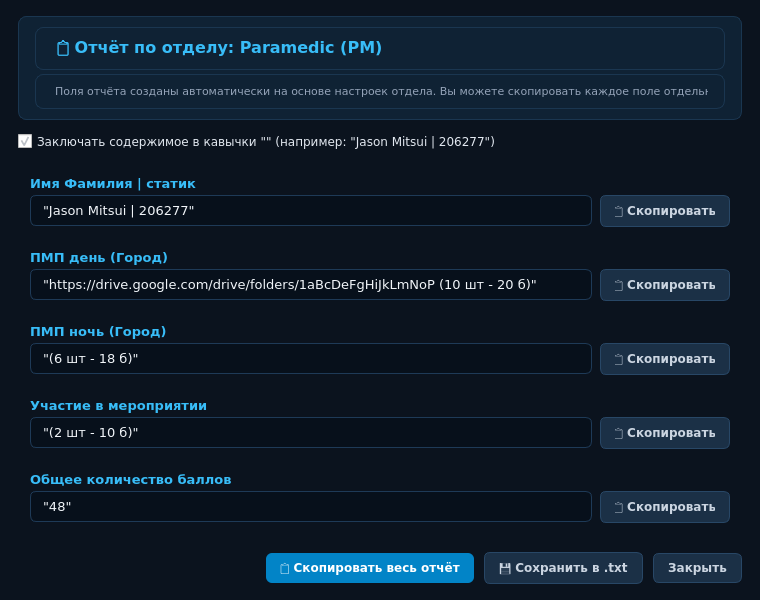
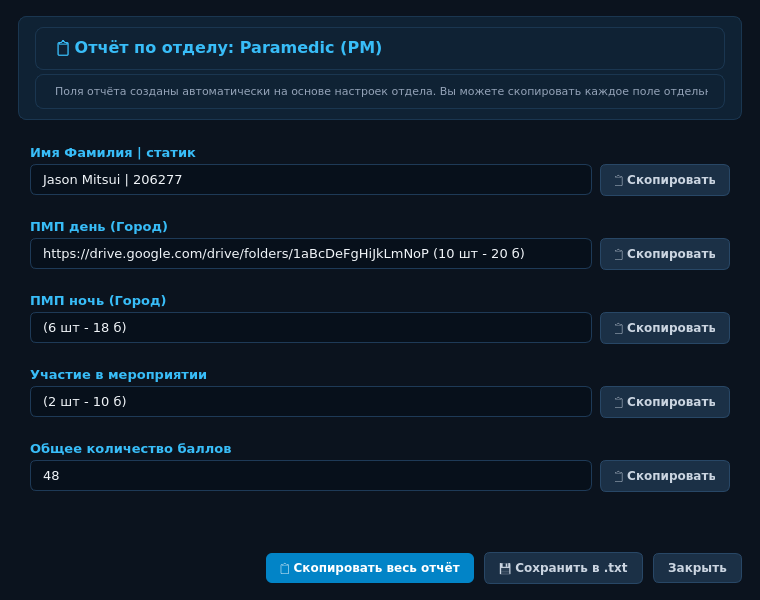
refactor: remove quotes completely from report fields and full export

Changed region(s): [[0.0, 0.21, 0.9684, 0.87]]

diff --git a/app/report_dialog.py b/app/report_dialog.py
@@ -1,4 +1,4 @@
-"""Report Preview and Export Dialog with individual fields."""
+"""Report Preview and Export Dialog with individual fields (no quotes)."""
 
 from __future__ import annotations
 
@@ -12,7 +12,6 @@ from PySide6.QtWidgets import (
     QLabel,
     QLineEdit,
     QPushButton,
-    QCheckBox,
     QApplication,
     QMessageBox,
     QFileDialog,
@@ -26,10 +25,10 @@ from app.models import ReporterConfig, DepartmentTab
 class ReportFieldItem(QWidget):
     """Single report item with a title label, editable/copyable value, and a copy button."""
 
-    def __init__(self, title: str, raw_value: str, with_quotes: bool = True, parent=None):
+    def __init__(self, title: str, value: str, parent=None):
         super().__init__(parent)
         self.title = title
-        self.raw_value = raw_value
+        self.value = value.strip()
 
         layout = QVBoxLayout(self)
         layout.setContentsMargins(4, 4, 4, 8)
@@ -44,9 +43,8 @@ class ReportFieldItem(QWidget):
         row = QHBoxLayout()
         row.setSpacing(8)
 
-        self.val_edit = QLineEdit()
+        self.val_edit = QLineEdit(self.value)
         self.val_edit.setStyleSheet("font-size: 13px; padding: 6px 10px; background-color: #07101b;")
-        self.set_quotes(with_quotes)
 
         self.copy_btn = QPushButton("📋 Скопировать")
         self.copy_btn.setObjectName("secondaryButton")
@@ -56,13 +54,6 @@ class ReportFieldItem(QWidget):
         row.addWidget(self.val_edit, 1)
         row.addWidget(self.copy_btn)
         layout.addLayout(row)
-
-    def set_quotes(self, with_quotes: bool):
-        val = self.raw_value.strip()
-        if with_quotes:
-            self.val_edit.setText(f'"{val}"')
-        else:
-            self.val_edit.setText(val)
 
     def get_text(self) -> str:
         return self.val_edit.text()
@@ -80,7 +71,7 @@ class ReportFieldItem(QWidget):
 
 
 class ReportPreviewDialog(QDialog):
-    """Dialog showing the department report as individual form fields."""
+    """Dialog showing the department report as individual form fields without quotes."""
 
     def __init__(
         self,
@@ -103,8 +94,8 @@ class ReportPreviewDialog(QDialog):
 
         tab_name = self.tab.title if self.tab else "Отдел"
         self.setWindowTitle(f"🚑 Формирование отчёта — {tab_name}")
-        self.resize(760, 640)
-        self.setMinimumSize(600, 480)
+        self.resize(760, 600)
+        self.setMinimumSize(600, 460)
 
         self.field_items: List[ReportFieldItem] = []
         self.setup_ui()
@@ -130,22 +121,13 @@ class ReportPreviewDialog(QDialog):
 
         desc_lbl = QLabel(
             "Поля отчёта созданы автоматически на основе настроек отдела. "
-            "Вы можете скопировать каждое поле отдельно или весь отчёт целиком."
+            "Вы можете скопировать каждое поле отдельно для формы или весь отчёт целиком."
         )
         desc_lbl.setStyleSheet("font-size: 11px; color: #94a3b8;")
 
         h_layout.addWidget(title_lbl)
         h_layout.addWidget(desc_lbl)
         layout.addWidget(header_frame)
-
-        # Options row
-        opt_layout = QHBoxLayout()
-        self.quotes_chk = QCheckBox('Заключать содержимое в кавычки "" (например: "Jason Mitsui | 206277")')
-        self.quotes_chk.setChecked(True)
-        self.quotes_chk.stateChanged.connect(self.on_quotes_toggled)
-        opt_layout.addWidget(self.quotes_chk)
-        opt_layout.addStretch()
-        layout.addLayout(opt_layout)
 
         # Scroll Area for fields
         self.scroll = QScrollArea()
@@ -186,14 +168,12 @@ class ReportPreviewDialog(QDialog):
         layout.addLayout(footer_layout)
 
     def populate_fields(self):
-        """Build all report fields for current department."""
+        """Build all report fields for current department without quotes."""
         # Clear existing
         for item in self.field_items:
             self.items_layout.removeWidget(item)
             item.deleteLater()
         self.field_items.clear()
-
-        with_quotes = self.quotes_chk.isChecked()
 
         # 1. First Field: Player Name | Static ID
         name = self.config.player_name.strip() if self.config.player_name else ""
@@ -207,7 +187,7 @@ class ReportPreviewDialog(QDialog):
         else:
             player_info = "Имя Фамилия | статик"
 
-        first_item = ReportFieldItem("Имя Фамилия | статик", player_info, with_quotes, self.scroll_content)
+        first_item = ReportFieldItem("Имя Фамилия | статик", player_info, self.scroll_content)
         self.items_layout.addWidget(first_item)
         self.field_items.append(first_item)
 
@@ -215,7 +195,7 @@ class ReportPreviewDialog(QDialog):
         if self.tab and self.tab.fields:
             for field in self.tab.fields:
                 entry_val = field.format_report_entry()
-                item = ReportFieldItem(field.name, entry_val, with_quotes, self.scroll_content)
+                item = ReportFieldItem(field.name, entry_val, self.scroll_content)
                 self.items_layout.addWidget(item)
                 self.field_items.append(item)
         else:
@@ -227,23 +207,18 @@ class ReportPreviewDialog(QDialog):
         tot_pts = self.tab.total_points() if self.tab else 0.0
         pts_str = f"{int(tot_pts)}" if tot_pts.is_integer() else f"{tot_pts:.1f}"
 
-        last_item = ReportFieldItem("Общее количество баллов", pts_str, with_quotes, self.scroll_content)
+        last_item = ReportFieldItem("Общее количество баллов", pts_str, self.scroll_content)
         self.items_layout.addWidget(last_item)
         self.field_items.append(last_item)
 
         self.items_layout.addStretch()
 
-    def on_quotes_toggled(self, state: int):
-        with_quotes = self.quotes_chk.isChecked()
-        for item in self.field_items:
-            item.set_quotes(with_quotes)
-
     def assemble_full_report_text(self) -> str:
-        """Assemble full report text in the format:
+        """Assemble full report text in plain format (no quotes):
         Title 1
-        "Value 1"
+        Value 1
         Title 2
-        "Value 2"
+        Value 2
         ...
         """
         lines = []

diff --git a/tests/test_ui.py b/tests/test_ui.py
@@ -121,30 +121,23 @@ def test_report_dialog_individual_fields(qapp):
 
         # Field 1: Player info
         assert dlg.field_items[0].title == "Имя Фамилия | статик"
-        assert dlg.field_items[0].get_text() == '"Jason Mitsui | 206277"'
+        assert dlg.field_items[0].get_text() == 'Jason Mitsui | 206277'
 
         # Field 2: Cloud link + status
         assert dlg.field_items[1].title == "ПМП день (Город)"
-        assert dlg.field_items[1].get_text() == '"https://drive.google.com/folder1 (10 шт - 20 б)"'
+        assert dlg.field_items[1].get_text() == 'https://drive.google.com/folder1 (10 шт - 20 б)'
 
         # Field 3: Without cloud link
         assert dlg.field_items[2].title == "ПМП ночь (Город)"
-        assert dlg.field_items[2].get_text() == '"(6 шт - 18 б)"'
+        assert dlg.field_items[2].get_text() == '(6 шт - 18 б)'
 
         # Field 4: Total points
         assert dlg.field_items[3].title == "Общее количество баллов"
-        assert dlg.field_items[3].get_text() == '"38"'
+        assert dlg.field_items[3].get_text() == '38'
 
         # Test copying individual item
         dlg.field_items[1].copy_value()
-        assert QApplication.clipboard().text() == '"https://drive.google.com/folder1 (10 шт - 20 б)"'
-
-        # Test toggling quotes off
-        dlg.quotes_chk.setChecked(False)
-        assert dlg.field_items[0].get_text() == 'Jason Mitsui | 206277'
-        assert dlg.field_items[1].get_text() == 'https://drive.google.com/folder1 (10 шт - 20 б)'
-        assert dlg.field_items[2].get_text() == '(6 шт - 18 б)'
-        assert dlg.field_items[3].get_text() == '38'
+        assert QApplication.clipboard().text() == 'https://drive.google.com/folder1 (10 шт - 20 б)'
 
         # Test copying entire report text
         dlg.copy_all_report()

diff --git a/app/storage.py b/app/storage.py
@@ -92,19 +92,19 @@ class ReportGenerator:
             player_info = "Имя Фамилия | статик"
 
         lines.append("Имя Фамилия | статик")
-        lines.append(f'"{player_info}"')
+        lines.append(player_info)
 
         # 2. Fields in the active tab
         for field in tab.fields:
             lines.append(field.name)
             entry = field.format_report_entry()
-            lines.append(f'"{entry}"')
+            lines.append(entry)
 
         # 3. Total points for the active tab
         tot_pts = tab.total_points()
         pts_str = f"{int(tot_pts)}" if tot_pts.is_integer() else f"{tot_pts:.1f}"
         lines.append("Общее количество баллов")
-        lines.append(f'"{pts_str}"')
+        lines.append(pts_str)
 
         return "\n".join(lines)
 

diff --git a/tests/test_core.py b/tests/test_core.py
@@ -149,13 +149,13 @@ def test_plain_report_generation():
     report = ReportGenerator.generate_plain_report(config, tab)
     expected_lines = [
         "Имя Фамилия | статик",
-        '"Jason Mitsui | 206277"',
+        "Jason Mitsui | 206277",
         "ПМП день (Город)",
-        '"https://drive.google.com/folder1 (10 шт - 20 б)"',
+        "https://drive.google.com/folder1 (10 шт - 20 б)",
         "ПМП ночь (Город)",
-        '"(6 шт - 18 б)"',
+        "(6 шт - 18 б)",
         "Общее количество баллов",
-        '"38"'
+        "38"
     ]
 
     for expected in expected_lines:
